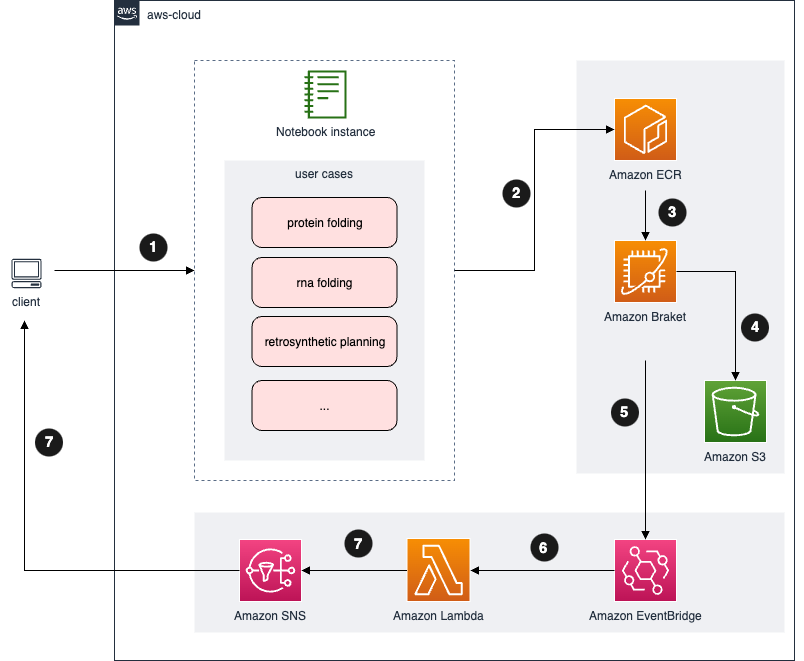
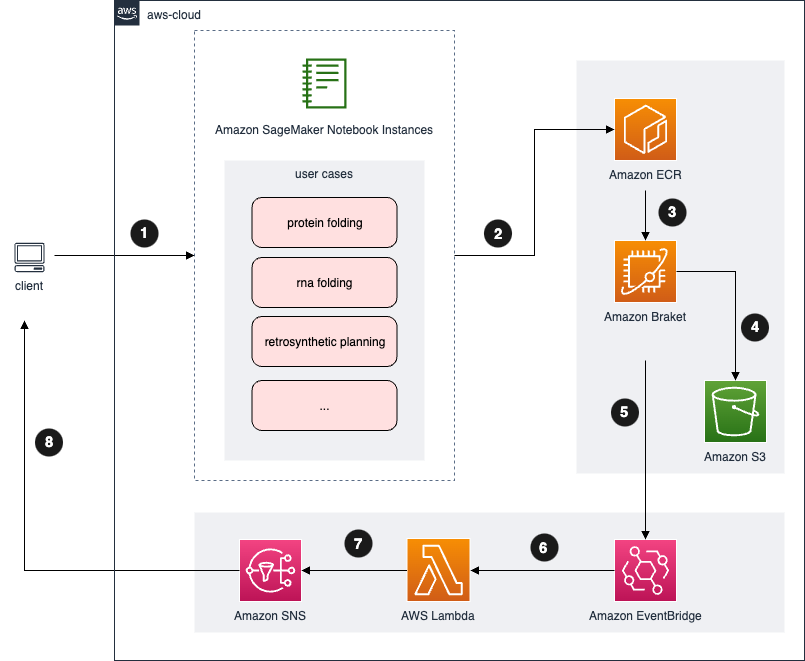
update docs

diff --git a/docs/en/revisions.md b/docs/en/revisions.md
@@ -1,5 +1,5 @@
-| Date       | Change                                                                                                                                                                                                                                                                                                                    |
-| ---------- | ------------------------------------------------------------------------------------------------------------------------------------------------------------------------------------------------------------------------------------------------------------------------------------------------------------------------- |
-| May 2022   | Initial release.                                                                                                                                                                                                                                                                                                          |
-| June 2022  | Release v1.0.1: bug fixes. For more information, refer to the [CHANGELOG.md](https://github.com/awslabs/quantum-computing-exploration-for-drug-discovery-on-aws/blob/main/CHANGELOG.md) file in the GitHub repository.                                                                                                    |
-| April 2023 | Release v1.1.0: <br> 1. Restructure the architecture, decouple the user notebook code and the underlying system code<br> 2. Simplify the architecture design and eliminate the batch and quickSight functions<br> 3. Add the SNS mail subscription function to ensure that the job running results reach the user in time |
+| Date      | Change                                                                                                                                                                                                                                                                                                                    |
+| --------- | ------------------------------------------------------------------------------------------------------------------------------------------------------------------------------------------------------------------------------------------------------------------------------------------------------------------------- |
+| May 2022  | Initial release.                                                                                                                                                                                                                                                                                                          |
+| June 2022 | Release v1.0.1: bug fixes. For more information, refer to the [CHANGELOG.md](https://github.com/awslabs/quantum-computing-exploration-for-drug-discovery-on-aws/blob/main/CHANGELOG.md) file in the GitHub repository.                                                                                                    |
+| June 2023 | Release v1.1.0: <br> 1. Restructure the architecture, decouple the user notebook code and the underlying system code<br> 2. Simplify the architecture design and eliminate the batch and quickSight functions<br> 3. Add the SNS mail subscription function to ensure that the job running results reach the user in time |

diff --git a/docs/en/architecture.md b/docs/en/architecture.md
@@ -14,9 +14,11 @@ Figure 1: Quantum Computing Exploration for Drug Discovery on AWS architecture
 
 5. Run multiple Hybrid Jobs in one experiment, and trigger the events in [Amazon EventBridge][eventbridge] when the Hybrid Job is completed.
 
-6. EventBridge sends a notification to [Amazon SNS][sns], and all subscribers who have subscribed to this topic will receive this notification. This step is optional, and you can specify emails for subscription notifications when deploying the solution.
+6. Events triggered by Amazon EventBridge will be sent to Lambda for analysis and summary.
 
-7. You can return to SageMaker Notebook to run the code to analyze and display the experimental results.
+7. Lambda sends a analysis report to [Amazon SNS][sns], and all subscribers who have subscribed to this topic will receive this report by email. This step is optional, and you can specify emails for subscription notifications when deploying the solution.
+
+8. You can return to SageMaker Notebook to run the code to analyze and display the experimental results.
 
 [sagemaker]: https://aws.amazon.com/sagemaker/
 [braket]: https://aws.amazon.com/braket/

diff --git a/docs/zh/revisions.md b/docs/zh/revisions.md
@@ -2,4 +2,4 @@
 | ------------ | -------------------------------------------------------------------------------------------------------------------------------------------------------------------------------- |
 | 2022 年 5 月 | 首次发布版本 v1.0.0                                                                                                                                                              |
 | 2022 年 6 月 | 版本 v1.0.1 ： 问题修护。请参考 GitHub 仓库中的[CHANGELOG.md](https://github.com/awslabs/quantum-computing-exploration-for-drug-discovery-on-aws/blob/main/CHANGELOG.md)         |
-| 2023 年 4 月 | 发布版本 v1.1.0 <br> 1. 重构架构, 解耦用户 notebook 代码和系统代码 <br> 2. 简化架构设计, 剔除 batch、quickSight 功能<br> 3. 新增 SNS 邮件订阅功能, 确保 job 运行结果及时触达用户 |
+| 2023 年 7 月 | 发布版本 v1.1.0 <br> 1. 重构架构, 解耦用户 notebook 代码和系统代码 <br> 2. 简化架构设计, 剔除 batch、quickSight 功能<br> 3. 新增 SNS 邮件订阅功能, 确保 job 运行结果及时触达用户 |

diff --git a/docs/zh/architecture.md b/docs/zh/architecture.md
@@ -14,9 +14,11 @@
 
 5. 一次实验运行多个 Hybrid Job，在 Hybrid Job 完成触发[Amazon EventBridge][eventbridge]中的事件。
 
-6. EventBridge 向[Amazon SNS][sns]发送一个通知，所有订阅了该主题的订阅者会收到此通知。此步骤为可选项，您可以在部署方案时指定订阅通知的邮件。
+6. Amazon EventBridge 触发的事件将被发送到 Lambda 进行分析和汇总。
 
-7. 您可以回到 SageMaker Notebook 中运行代码，来对实验结果进行分析及展示。默认的结果分析代码中，提供了经典计算和量子计算的结果对比。
+7. Lambda 向[Amazon SNS][sns] 发送分析报告，所有订阅该主题的订阅者都会通过电子邮件收到此报告。 此步骤是可选的，您可以在部署解决方案时指定用于订阅通知的电子邮件。
+
+8. 您可以回到 SageMaker Notebook 中运行代码，来对实验结果进行分析及展示。默认的结果分析代码中，提供了经典计算和量子计算的结果对比。
 
 [sagemaker]: https://aws.amazon.com/sagemaker/
 [braket]: https://aws.amazon.com/braket/

diff --git a/docs/zh/regions.md b/docs/zh/regions.md
@@ -2,7 +2,7 @@
 
 目前本方案使用的服务可能并非在所有亚马逊云科技区域都可用。您需要在提供所需服务的亚马逊云科技区域启动此方案。有关最新的区域可用性信息，请参阅亚马逊云科技区域服务列表。
 
-截至 2023 年 4 月，本方案支持部署在以下亚马逊云科技区域：
+截至 2023 年 7 月，本方案支持部署在以下亚马逊云科技区域：
 
 | 区域名称                       | 区域 ID   |
 | ------------------------------ | --------- |

diff --git a/docs/en/regions.md b/docs/en/regions.md
@@ -2,7 +2,7 @@
 
 This solution uses services which may not be currently available in all AWS Regions. Launch this solution in an AWS Region where required services are available. For the most current availability by Region, refer to the AWS Regional Services List.
 
-As of April 2023, this solution is supported in the following AWS Regions:
+As of June 2023, this solution is supported in the following AWS Regions:
 
 | Region ID | Region Name             |
 | --------- | ----------------------- |
